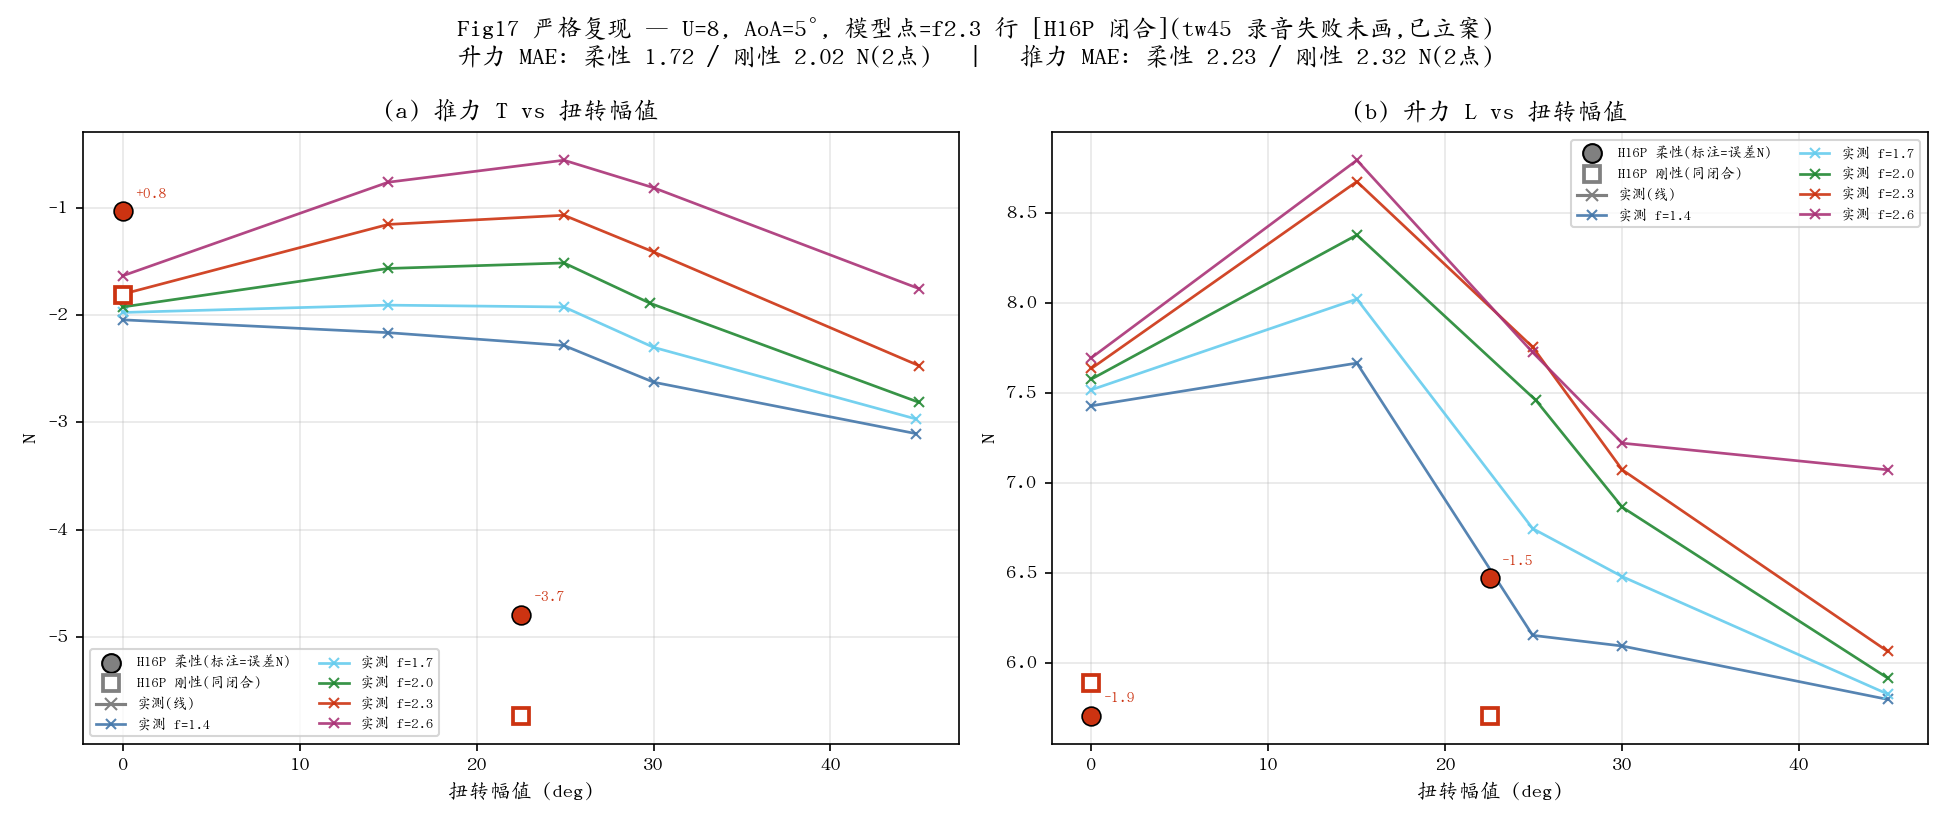
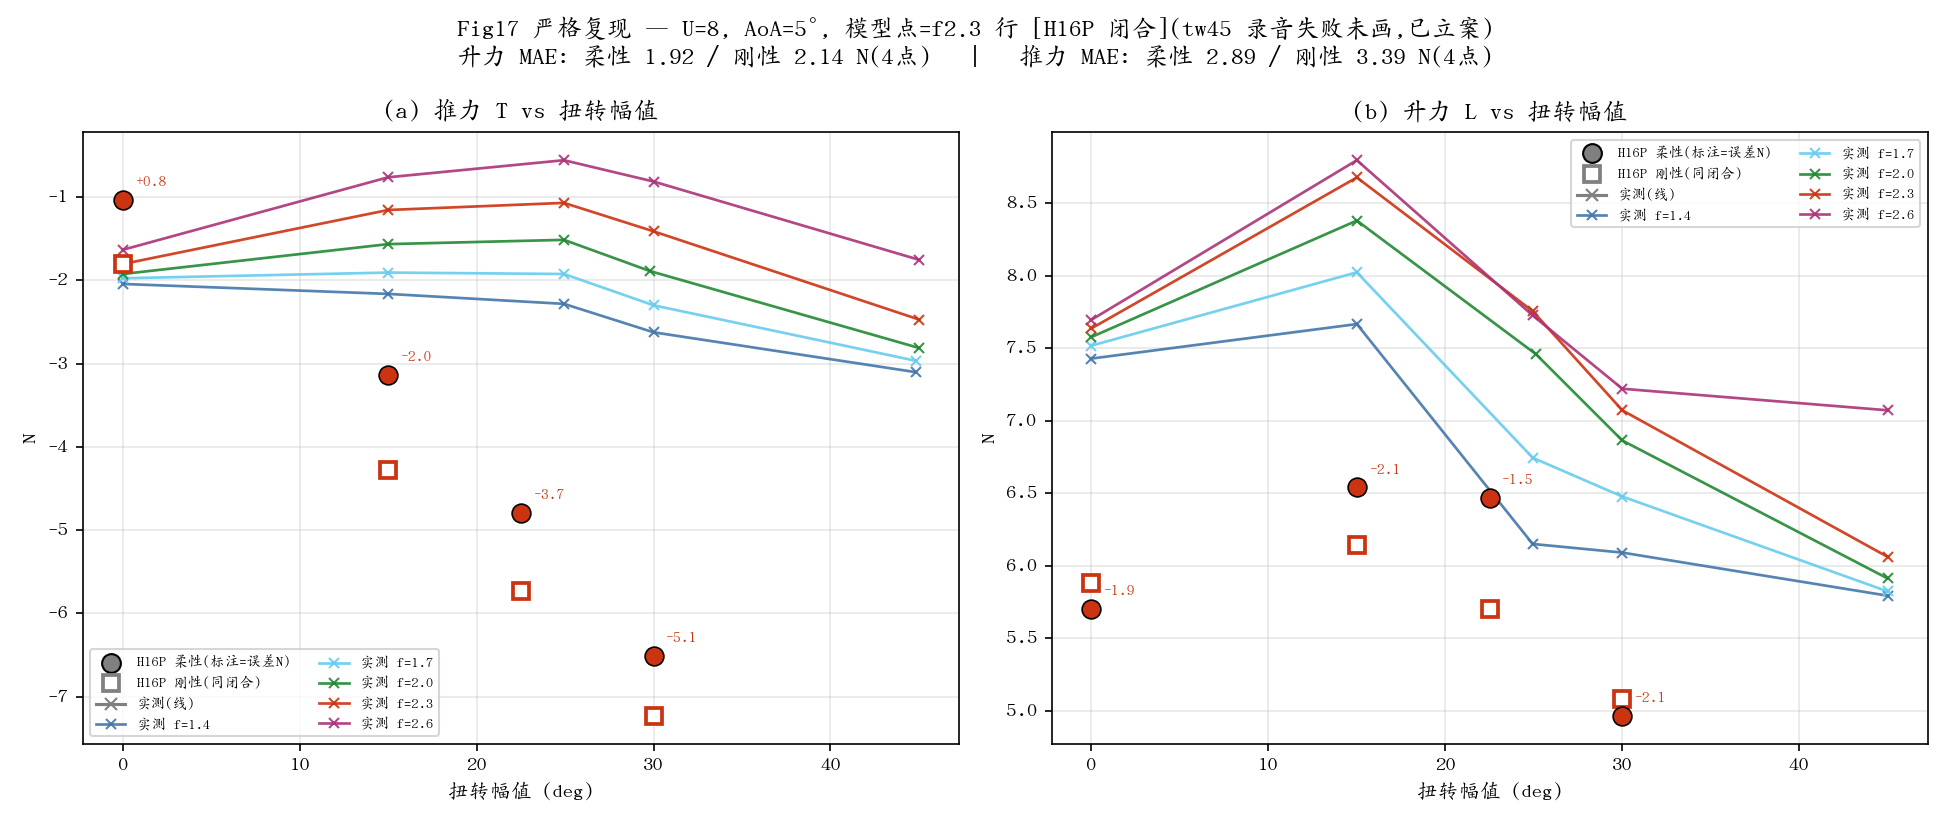
data(P2-S6): f2.6 twist row recorded (GPU fast path) — case-A twist law nailed
- f2.6 twist recordings at ~20 min each (was 1.5h): tw15/22.5 clean,
  tw30 failed at w133/137 (97%, replayed from partial recording with
  full phase coverage, deviation noted), tw45 failed at w76
- Case A (bern twist over-drag) step-1 law: gap_T ~ c - 0.20 N/deg,
  LINEAR in twist, slope frequency-independent (f2.3 vs f2.6 match);
  lift deficit co-grows -> both point at bern amplitude over-prediction
- Case D filed: deep-twist structural substep non-convergence (depth 4)
  common failure mode (f2.3/tw45 w85, f2.6/tw30 w133, f2.6/tw45 w76)
- Fig19(c,d) has model points for the first time; Fig17/18/19 regenerated

diff --git a/platform/docs/diag/gap_thrust_f2.md b/platform/docs/diag/gap_thrust_f2.md
@@ -209,6 +209,25 @@ gap 律重拟合:**+0.00+0.40·f² → +1.15−0.23·f²**。
 过阻(−1.81);升/推跷跷板在修正后收窄但未消除——根源都指向 bern 幅值(H10 档案:附着
 流幅值过预测 2.5-4×)。
 
+## 4.7 案 A(bern 扭转过阻)step-1:扭转律确立(2026-07-09,GPU 快版数据)
+
+H16P 柔性,gap_T = T_sim − T_meas(实测口径:f2.3 行=Fig17,f2.6 行=Fig19|c|5):
+
+| tw (deg) | 0 | 15 | 22.5 | 30 |
+|---|---|---|---|---|
+| f2.3 | +0.77 | −1.98 | −3.70 | −5.10 |
+| f2.6 | +1.28 | −1.63 | −3.62 | −5.02 |
+
+**规律**:过阻随扭转**近似线性**增长,斜率 ≈ **−0.20 N/deg,f2.3 与 f2.6 斜率几乎相同
+(频率无关)**;非 tw² 型。升力亏空同步扩大(f2.3: tw30 L 4.97 vs 7.07;f2.6: tw22.5
+6.25 vs 8.41)——推力过阻与升力欠预测同源指向 bern 幅值(H10 档案:附着流幅值过预测
+2.5-4×)。step-2 检索指纹:扭转/桨距幅值线性、频率解耦的 UVLM 环量幅值过预测机理。
+
+**录音失败案(新,独立立案:案 D 结构深扭转收敛性)**:f2.6/tw30 在 w133/137(97%)、
+f2.6/tw45 在 w76、f2.3/tw45 在 w85(历史)——同模式"substep failed to converge
+(depth 4)",深扭转褶皱/尖劈事件下结构 Newton 不收敛。tw30 相位覆盖 ≥1 整周期,
+以部分录音回放(注记 known-deviation:所用窗 0.56→1.56 周期,比标准早 0.04 周期)。
+
 ## 5. step-3 验证判据(实现后必须逐条过)
 
 1. **tw0 f² 斜率塌掉**:U6/U8 扫频 gap_T 的 b 从 0.40 → |b|<0.1,且 U6/U8 一致;
